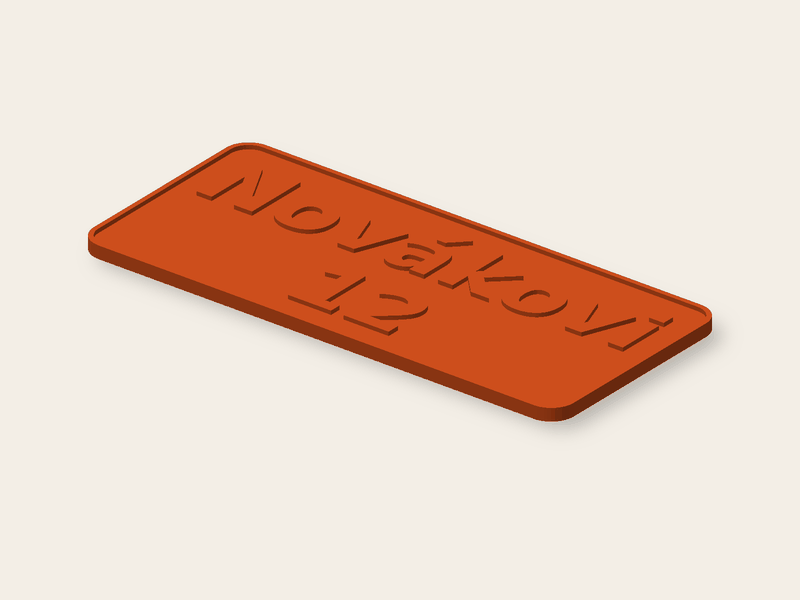
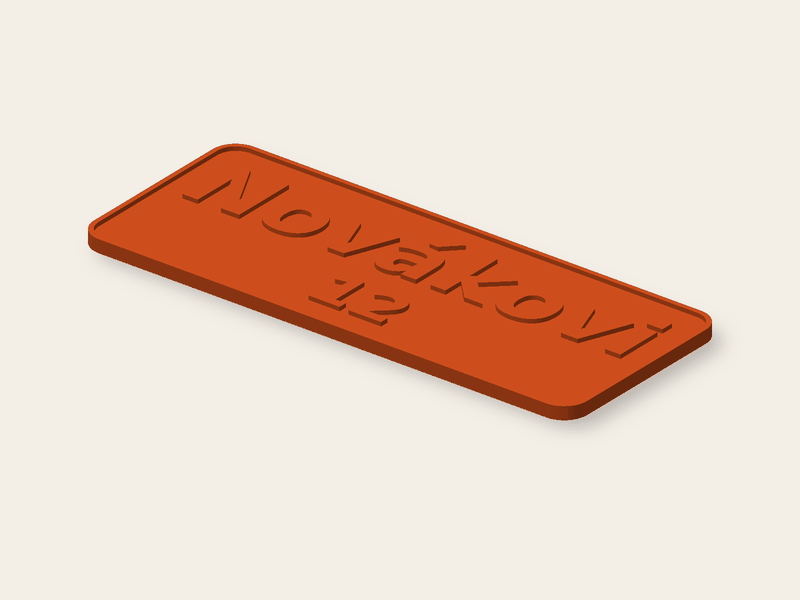
Tools: four places where a tool said one thing and did another
- sign: the second line is smaller (70 % of the first), as its label says; the example picture is redrawn
- illuminated sign: the hint puts the cable hole where it is, in the body
- phone stand: an angle the chosen shape cannot stand at is still corrected, but the page says so
  (notes.warnings stand_angle_45/55/70, notes.angle)
- cap: the message "a thread works on a round cap only" was never shown and never true; removed

The QR code's hanging hole is being fixed in feature/farm. docs/H.md has the details.

Changed region(s): [[0.0938, 0.24, 0.9062, 0.72]]

diff --git a/tests/Feature/ToolFixesTest.php b/tests/Feature/ToolFixesTest.php
@@ -1,0 +1,97 @@
+<?php
+
+namespace Tests\Feature;
+
+use App\Domain\Tools\ParametricGenerator;
+use Illuminate\Foundation\Testing\RefreshDatabase;
+use Illuminate\Support\Facades\Lang;
+use Tests\TestCase;
+
+/** Four places where a tool said one thing and did another: the sign, the illuminated sign, the phone stand, the cap. */
+class ToolFixesTest extends TestCase
+{
+    use RefreshDatabase;
+
+    protected function setUp(): void
+    {
+        parent::setUp();
+        if (! app(ParametricGenerator::class)->available()) {
+            $this->markTestSkipped('Python with manifold3d is not installed.');
+        }
+    }
+
+    private function notes(string $kind, array $params): array
+    {
+        $response = $this->postJson('/api/tools/param/preview', ['kind' => $kind, 'params' => $params])->assertOk();
+
+        return (array) json_decode((string) $response->headers->get('X-Model-Meta'), true)['notes'];
+    }
+
+    public function test_the_second_line_of_a_sign_is_smaller_as_its_label_says(): void
+    {
+        $this->assertStringContainsString('menší', __('param.t.sign.line2'));
+        $sign = ['style' => 'emboss', 'shape' => 'rect', 'text_height' => 12, 'margin' => 5];
+        // the plate is as wide as its widest line plus the margins: ten letters alone, and the same ten under one letter
+        $alone = $this->notes('sign', $sign + ['line1' => 'HHHHHHHHHH'])['outer'];
+        $under = $this->notes('sign', $sign + ['line1' => 'H', 'line2' => 'HHHHHHHHHH'])['outer'];
+        $this->assertEqualsWithDelta(0.7, ($under[0] - 10) / ($alone[0] - 10), 0.01, 'the second line is 70 % of the first');
+        // … and the plate is lower than it would be with two lines of the same height
+        $one = $alone[1] - 10;                           // the height of one line of capitals
+        $this->assertGreaterThan($one * 1.7, $under[1] - 10);
+        $this->assertLessThan($one * 2.3, $under[1] - 10);
+        // two lines as wide as each other: the plate is as wide as the first, the second does not reach its edges
+        $this->assertSame($alone[0], $this->notes('sign', $sign + ['line1' => 'HHHHHHHHHH', 'line2' => 'HHHHHHHHHH'])['outer'][0]);
+    }
+
+    public function test_the_phone_stand_says_when_it_cannot_stand_at_the_angle_that_was_asked_for(): void
+    {
+        $stand = fn (string $style, float $angle) => $this->notes('phone_stand', ['style' => $style, 'width' => 70, 'device' => 12, 'angle' => $angle]);
+
+        foreach ([['plate', 40, 55, 'stand_angle_55'], ['wave', 35, 55, 'stand_angle_55'], ['desk', 40, 45, 'stand_angle_45'], ['wedge', 80, 70, 'stand_angle_70']] as [$style, $asked, $used, $warning]) {
+            $notes = $stand($style, $asked);
+            $this->assertSame([(float) $used, [$warning]], [(float) $notes['angle'], $notes['warnings']], $style);
+            // the same model as when that angle is asked for directly
+            $this->assertSame($notes['outer'], $stand($style, $used)['outer'], $style);
+        }
+        // inside the range nothing is changed and nothing is said
+        foreach ([['plate', 65], ['wave', 60], ['desk', 50], ['wedge', 60]] as [$style, $asked]) {
+            $notes = $stand($style, $asked);
+            $this->assertSame([(float) $asked, []], [(float) $notes['angle'], $notes['warnings'] ?? []], $style);
+        }
+        // the page knows the sentences in every language
+        foreach (['cs' => 'stojí pevně až od 55°', 'en' => 'stable only from 55°', 'es' => 'estable a partir de 55°'] as $locale => $words) {
+            $this->assertStringContainsString($words, __('param.warn.stand_angle_55', [], $locale));
+            $this->get($this->localized('/tools/phone-stand', $locale))->assertOk()->assertSee('param.warn.stand_angle_55')->assertSee('param.warn.stand_angle_70');
+        }
+        // the new group file does not hide the dictionary's own `param.*` texts
+        $this->assertSame('První řádek', __('param.t.sign.line1', [], 'cs'));
+    }
+
+    public function test_the_illuminated_sign_has_its_cable_hole_where_the_text_says(): void
+    {
+        foreach (['cs' => 'tělo s otvorem na kabel', 'en' => 'body with a cable hole', 'es' => 'cuerpo con orificio para el cable'] as $locale => $words) {
+            $this->assertStringContainsString($words, __('tools.lightbox.hint', [], $locale));
+            $this->get($this->localized('/tools', $locale))->assertOk()->assertSee($words);
+        }
+        // the hole is in the body: a thicker cable takes more out of the body and nothing out of the back cover
+        $volume = function (string $part, float $cable): float {
+            $response = $this->postJson('/api/tools/param/preview', ['kind' => 'lightbox', 'params' => ['line1' => 'OPEN', 'cable' => $cable], 'part' => $part])->assertOk();
+
+            return (float) json_decode((string) $response->headers->get('X-Model-Meta'), true)['volume_mm3'];
+        };
+        $this->assertLessThan($volume('body', 4), $volume('body', 8));
+        $this->assertSame($volume('back', 4), $volume('back', 8));
+    }
+
+    public function test_a_threaded_cap_may_be_round_square_or_hexagonal_and_no_text_says_otherwise(): void
+    {
+        foreach (['round', 'rect', 'hex'] as $shape) {
+            $notes = $this->notes('cap', ['style' => 'thread', 'shape' => $shape, 'size_a' => 28, 'size_b' => 40, 'height' => 12, 'pitch' => 3]);
+            $this->assertSame([$shape, [28.0]], [$notes['shape'], array_map('floatval', $notes['fits'])]);
+            $this->assertArrayHasKey('thread', $notes);
+        }
+        foreach (['cs', 'en', 'es'] as $locale) {
+            $this->assertFalse(Lang::has('param.error.cap_thread_round', $locale, false), 'the message about a round cap only was never true');
+        }
+    }
+}

diff --git a/engines/python/shape2d.py b/engines/python/shape2d.py
@@ -84,8 +84,11 @@ def _spare_fonts(font_path):
 SILENT = {0xFE0E, 0xFE0F, 0x200D, 0x20E3} | set(range(0x1F3FB, 0x1F400))
 
 
-def text(M, lines, font_path, cap_height_mm, line_gap=0.35, align="center"):
-    """Lines of text → outline. cap_height_mm is the height of a capital letter, so "12 mm text" means what people expect."""
+def text(M, lines, font_path, cap_height_mm, line_gap=0.35, align="center", scales=None):
+    """
+    Lines of text → outline. cap_height_mm is the height of a capital letter, so "12 mm text" means what people expect.
+    scales: how tall each line is against that height (None = all the same); a name with a smaller line under it is [1, 0.7].
+    """
     import numpy as np
     from fontTools.ttLib import TTFont
     lines = [l for l in (str(x).strip() for x in lines) if l]
@@ -153,22 +156,28 @@ def text(M, lines, font_path, cap_height_mm, line_gap=0.35, align="center"):
             x += hmtx[g][0]
         rows.append(row)
         widths.append(x)
+    size = [float(scales[i]) if scales and i < len(scales) else 1.0 for i in range(len(rows))]
+    widths = [w * s for w, s in zip(widths, size)]
     wmax = max(widths) if widths else 0
-    step = cap * (1 + line_gap) + units * 0.12
+    # baselines: under a line comes the gap, what hangs below its baseline, and the capitals of the next line
+    # (with every line the same size this is the one step there always was)
+    base = [0.0]
+    for i in range(1, len(rows)):
+        base.append(base[-1] - (cap * size[i] + cap * line_gap * (size[i - 1] + size[i]) / 2 + units * 0.12 * size[i - 1]))
     for i, row in enumerate(rows):
         dx = {"left": 0, "right": wmax - widths[i]}.get(align, (wmax - widths[i]) / 2)
-        dy = -i * step
+        s, dy = size[i], base[i]
         for poly in row:
             total += len(poly)
-            polys.append(np.array([((px + dx) * k, (py + dy) * k) for px, py in poly], dtype=np.float64))
+            polys.append(np.array([((px * s + dx) * k, (py * s + dy) * k) for px, py in poly], dtype=np.float64))
     if not polys:
         raise ArtworkError("no_text")
     if total > MAX_POINTS:
         raise ArtworkError("too_complex")
     cs = M.CrossSection(polys, M.FillRule.NonZero)
     bx0, by0, bx1, by1 = cs.bounds()
-    # the baseline of the last line sits at y = -(lines-1)·step; how far the ink hangs below it, relative to the text width
-    base_y = -(len(rows) - 1) * step * k
+    # how far the ink hangs below the baseline of the last line, relative to the text width
+    base_y = base[-1] * k
     hang = max(0.0, base_y - by0) / max(1e-6, bx1 - bx0)
     return cs, {"missing_chars": sorted(missing), "source": "text", "descent_ratio": hang}
 

diff --git a/resources/views/tools/param.blade.php b/resources/views/tools/param.blade.php
@@ -4,7 +4,7 @@
     $integer = fn (array $f) => $f[3] === 1;
     $unit = fn (string $k) => in_array($k, ['rows', 'cols', 'count', 'ribs'], true) ? '' : (in_array($k, ['angle', 'twist'], true) ? '°' : ($k === 'flute' ? '%' : 'mm'));
     $i18n = collect(['param.working', 'param.failed', 'param.too_fast', 'param.text_required', 'param.estimate', 'param.outer', 'param.inner', 'param.cell', 'param.slot', 'param.hole', 'param.hole.remove', 'param.creating', 'param.too_many_holes',
-        'param.wall.front', 'param.wall.back', 'param.wall.left', 'param.wall.right', 'param.shape.circle', 'param.shape.rect', 'param.hole.w', 'param.hole.d', 'param.hole.h', 'param.hole.x', 'param.hole.z',
+        'param.warn.stand_angle_45', 'param.warn.stand_angle_55', 'param.warn.stand_angle_70', 'param.wall.front', 'param.wall.back', 'param.wall.left', 'param.wall.right', 'param.shape.circle', 'param.shape.rect', 'param.hole.w', 'param.hole.d', 'param.hole.h', 'param.hole.x', 'param.hole.z',
         'param.part.body', 'param.part.lid', 'param.part.all', 'param.part.saucer', 'param.part.handle', 'param.part.stand', 'param.part.imprint', 'param.part.cut', 'param.part.body.logo', 'param.part.stand.logo', 'param.part.body.vase', 'param.part.body.stamp', 'param.part.body.qr', 'param.part.body.lightbox', 'param.warn.floating_pieces', 'param.need.glue_optional', 'param.part.tray', 'param.part.bin', 'param.bom', 'param.bom.line', 'param.unit', 'param.bins.free', 'param.bins.pick_end', 'param.bins.taken', 'param.bins.bin', 'param.bins.empty',
         'color.white', 'color.black', 'color.grey', 'color.brown', 'color.red', 'color.blue', 'color.green', 'color.yellow', 'color.orange', 'param.part.face', 'param.part.diffuser', 'param.part.back', 'param.bridges', 'param.lightbox.led', 'param.need.led_strip8', 'param.need.led_strip10', 'param.need.led_module', 'param.need.usb_power', 'param.need.tape', 'param.view', 'param.artwork.uploading', 'param.artwork.failed', 'param.artwork.remove',
         'param.warn.thread_try', 'param.warn.seal_try', 'param.need.liner', 'param.fits', 'param.warn.thin_lines', 'param.warn.outlines_ignored', 'param.warn.missing_chars', 'param.warn.separate_pieces', 'param.need.glue', 'param.needs', 'param.qr.facts', 'param.vase.facts', 'param.saucer'])->mapWithKeys(fn ($k) => [$k => __($k)])->all();

diff --git a/engines/python/param_tool.py b/engines/python/param_tool.py
@@ -451,8 +451,18 @@ def phone_stand(M, p):
     C = M.CrossSection
     note = {}
 
+    def lean(lo=None, hi=None):
+        """The angle that was asked for, kept to what this shape stands firmly at; a changed angle is told (param.warn.stand_angle_*)."""
+        asked = num(p, k, "angle", 65)
+        used = asked if lo is None else max(asked, lo)
+        used = used if hi is None else min(used, hi)
+        if used != asked:
+            note.setdefault("warnings", []).append("stand_angle_%d" % used)
+        note["angle"] = used
+        return used
+
     if style == "wave":
-        angle, back = max(num(p, k, "angle", 65), 55.0), num(p, k, "back", 90)
+        angle, back = lean(lo=55.0), num(p, k, "back", 90)
         profile, depth, height, seat_top, (sx0, sx1) = _wave_profile(M, device, angle, back, t)
         solid = profile.extrude(width)
         if cable:
@@ -466,7 +476,7 @@ def phone_stand(M, p):
 
     if style == "plate":
         # flat base, a leaning back plate braced by a fin, two hook blocks with a seat and a lip; printed upright
-        angle, back = max(num(p, k, "angle", 65), 55.0), num(p, k, "back", 100)
+        angle, back = lean(lo=55.0), num(p, k, "back", 100)
         a = math.radians(angle)
         seat_h, lip_h, lip_t, hook_w = 10.0, 6.0, 3.0, 12.0
         y_lip = 8.0
@@ -490,7 +500,7 @@ def phone_stand(M, p):
         return {"all": solid, "use": use}, note
 
     if style == "wedge":
-        angle = min(num(p, k, "angle", 65), 70.0)
+        angle = lean(hi=70.0)
         profile, mouth, height, depth = _wedge_profile(M, device, angle, num(p, k, "depth", 60), r)
         solid = profile.extrude(width)
         if cable:
@@ -553,7 +563,7 @@ def phone_stand(M, p):
         note["material_hint"] = "petg"
         return {"all": solid, "use": use}, note
 
-    angle, back = max(num(p, k, "angle", 65), 45.0), num(p, k, "back", 100)
+    angle, back = lean(lo=45.0), num(p, k, "back", 100)
     profile, fx, rear_x, top_y, shelf_h, lip_h = _desk_profile(M, device, angle, back, t, r, bool(p.get("window", True)))
     solid = profile.extrude(width)
     if cable:

diff --git a/lang/cs/tools_seo/sign.php b/lang/cs/tools_seo/sign.php
@@ -5,7 +5,7 @@ return [
     'description' => 'Napíšete jméno nebo text, vyberete tvar a písmo a hned vidíte model i cenu. Cedulku, jmenovku nebo klíčenku vám vytiskneme, nebo si ji stáhnete.',
     'h1' => 'Cedulka, jmenovka nebo klíčenka s vlastním textem',
     'intro' => [
-        'Nástroj vytvoří z textu, který napíšete, model cedulky na dveře, jmenovky, klíčenky nebo jména bez destičky. Text může mít jeden nebo dva řádky, každý nejvýše 40 znaků. Vyberete provedení písma (vystouplé, zapuštěné, obrys, nebo jen jméno bez destičky), tvar destičky a jedno ze čtyř písem. Rozměry destičky se dopočítají samy podle délky textu, výšky písma a okraje.',
+        'Nástroj vytvoří z textu, který napíšete, model cedulky na dveře, jmenovky, klíčenky nebo jména bez destičky. Text může mít jeden nebo dva řádky, každý nejvýše 40 znaků; druhý řádek je menší než první. Vyberete provedení písma (vystouplé, zapuštěné, obrys, nebo jen jméno bez destičky), tvar destičky a jedno ze čtyř písem. Rozměry destičky se dopočítají samy podle délky textu, výšky písma a okraje.',
         'Náhled se mění při každé úpravě a pod ním vidíte vnější rozměry v milimetrech a orientační cenu. Hotový návrh si objednáte jako výtisk z naší tiskové farmy, nebo si ho zdarma stáhnete pro svou tiskárnu. Vystouplé písmo umíme vytisknout druhou barvou: tiskárna ji vymění ve výšce, kde písmo začíná. Barvy vybíráte z těch, které jsou právě založené v tiskárnách.',
     ],
     'steps' => [

diff --git a/lang/es/tools_seo/sign.php b/lang/es/tools_seo/sign.php
@@ -5,7 +5,7 @@ return [
     'description' => 'Escriba un nombre o un texto, elija la forma y la tipografía y vea al instante el modelo y el precio. Imprimimos la placa o el llavero, o lo descarga.',
     'h1' => 'Placa, etiqueta o llavero con su propio texto',
     'intro' => [
-        'La herramienta convierte su texto en un cartel de puerta, una etiqueta, un llavero o un nombre sin placa. El texto admite una o dos líneas de hasta 40 caracteres. Usted elige el acabado (en relieve, grabado, contorno o solo el nombre), la forma de la placa y una de cuatro tipografías. Las medidas de la placa se calculan según el texto, la altura de letra y el margen.',
+        'La herramienta convierte su texto en un cartel de puerta, una etiqueta, un llavero o un nombre sin placa. El texto admite una o dos líneas de hasta 40 caracteres; la segunda línea es más pequeña que la primera. Usted elige el acabado (en relieve, grabado, contorno o solo el nombre), la forma de la placa y una de cuatro tipografías. Las medidas de la placa se calculan según el texto, la altura de letra y el margen.',
         'La vista previa cambia con cada ajuste y muestra las medidas exteriores en milímetros y un precio orientativo. Puede pedir el diseño impreso en nuestra granja de impresión o descargarlo gratis para su impresora. Las letras en relieve se pueden imprimir en un segundo color: la impresora lo cambia a la altura donde empiezan las letras. Los colores disponibles son los cargados en las impresoras en ese momento.',
     ],
     'steps' => [

diff --git a/lang/en/tools_seo/sign.php b/lang/en/tools_seo/sign.php
@@ -5,7 +5,7 @@ return [
     'description' => 'Type a name or a text, pick a shape and a typeface and see the model and the price at once. We print the sign, name tag or keyring, or you download it.',
     'h1' => 'A sign, name tag or keyring with your own text',
     'intro' => [
-        'The tool turns your text into a door sign, a name tag, a keyring or a name without a plate. The text can have one or two lines of up to 40 characters each. You pick the lettering (raised, engraved, outline, or the name alone), the plate shape and one of four typefaces. The plate size follows from the length of the text, the letter height and the margin.',
+        'The tool turns your text into a door sign, a name tag, a keyring or a name without a plate. The text can have one or two lines of up to 40 characters each; the second line is smaller than the first. You pick the lettering (raised, engraved, outline, or the name alone), the plate shape and one of four typefaces. The plate size follows from the length of the text, the letter height and the margin.',
         'The preview changes with every edit and shows the outer size in millimetres and a rough price. You order the design as a print from our print farm, or download it free for your own printer. Raised letters can be printed in a second colour: the printer swaps it at the height where the letters begin. You choose from the colours loaded in the printers at that moment.',
     ],
     'steps' => [

diff --git a/engines/python/creative_kinds.py b/engines/python/creative_kinds.py
@@ -255,6 +255,9 @@ def logo(M, Invalid, p):
 
 # ── sign / name tag / keychain ───────────────────────────────────────────────
 
+SIGN_SECOND_LINE = 0.7     # the height of a sign's second line against the first
+
+
 def sign(M, Invalid, p):
     """
     Text on a plate: raised (emboss), sunk (engrave) or raised as an outline. Keyring tab, raised rim, a bevelled top
@@ -273,7 +276,8 @@ def sign(M, Invalid, p):
     if not lines:
         raise Invalid("no_text")
     try:
-        art, info = S.text(M, lines[:2], p.get("font"), cap)
+        # the form calls the second line "smaller": a name and a line under it, not two headlines
+        art, info = S.text(M, lines[:2], p.get("font"), cap, scales=[1.0, SIGN_SECOND_LINE])
     except S.ArtworkError as e:
         raise Invalid(e.code)
     w, hgt = S.size(art)

diff --git a/lang/es/param.php b/lang/es/param.php
@@ -1,0 +1,11 @@
+<?php
+
+// Texts of the parametric tools that are not in the shared dictionary (lang/es.json holds the rest of `param.*`).
+return [
+    'warn' => [
+        // the phone stand: the angle that was asked for is outside what the chosen shape stands firmly at
+        'stand_angle_45' => 'Esta forma de soporte solo es estable a partir de 45°. Por eso el modelo tiene un ángulo de 45°, no el indicado.',
+        'stand_angle_55' => 'Esta forma de soporte solo es estable a partir de 55°. Por eso el modelo tiene un ángulo de 55°, no el indicado.',
+        'stand_angle_70' => 'La cuña baja sujeta el teléfono como máximo a 70°. Por eso el modelo tiene un ángulo de 70°, no el indicado.',
+    ],
+];

diff --git a/lang/en/param.php b/lang/en/param.php
@@ -1,0 +1,11 @@
+<?php
+
+// Texts of the parametric tools that are not in the shared dictionary (lang/en.json holds the rest of `param.*`).
+return [
+    'warn' => [
+        // the phone stand: the angle that was asked for is outside what the chosen shape stands firmly at
+        'stand_angle_45' => 'This stand shape is stable only from 45°. The model therefore has an angle of 45°, not the one you entered.',
+        'stand_angle_55' => 'This stand shape is stable only from 55°. The model therefore has an angle of 55°, not the one you entered.',
+        'stand_angle_70' => 'A low wedge holds the phone at 70° at most. The model therefore has an angle of 70°, not the one you entered.',
+    ],
+];

diff --git a/lang/cs/param.php b/lang/cs/param.php
@@ -1,0 +1,11 @@
+<?php
+
+// Texts of the parametric tools that are not in the shared dictionary (lang/cs.json holds the rest of `param.*`).
+return [
+    'warn' => [
+        // the phone stand: the angle that was asked for is outside what the chosen shape stands firmly at
+        'stand_angle_45' => 'Tenhle tvar stojánku stojí pevně až od 45°. Model má proto úhel 45°, ne ten zadaný.',
+        'stand_angle_55' => 'Tenhle tvar stojánku stojí pevně až od 55°. Model má proto úhel 55°, ne ten zadaný.',
+        'stand_angle_70' => 'Nízký klín udrží telefon nejvýš v úhlu 70°. Model má proto úhel 70°, ne ten zadaný.',
+    ],
+];

diff --git a/docs/H.md b/docs/H.md
@@ -1,0 +1,46 @@
+# Opravy čtyř nástrojů
+
+Větev `feature/h-tool-fixes` (z `feature/g-no-pickup-logo`). Čtyři z pěti drobností sepsaných v `docs/E.md`;
+pátou (QR kód, otvor na zavěšení) opravuje jiná session ve `feature/farm`.
+
+| nástroj | co bylo špatně | oprava |
+|---|---|---|
+| Cedulka | popisek „Druhý řádek (menší)“, ale oba řádky byly stejně vysoké | druhý řádek má 70 % výšky prvního (`SIGN_SECOND_LINE` v `creative_kinds.py`, `shape2d.text(..., scales=)`). Destička se dopočítá podle toho. Cedulka s jedním řádkem se nezměnila. |
+| Světelná cedule | nápověda: otvor na kabel je v zadním krytu; ve skutečnosti je v těle | opravený text ve třech jazycích („tělo s otvorem na kabel a zadní kryt“) |
+| Stojánek na telefon | formulář dovolí úhel 35 až 80°, tvar ho potichu upravil (deska a vlna od 55°, stolní od 45°, klín do 70°) | model se pořád vyrobí v úhlu, ve kterém tvar stojí pevně, ale stránka to řekne: „Tenhle tvar stojánku stojí pevně až od 55°. Model má proto úhel 55°, ne ten zadaný.“ Použitý úhel je i v údajích modelu (`notes.angle`). |
+| Krytka se závitem | ve slovníku byla hláška „závit umíme jen na kulatém víčku“ | hláška se nikdy nezobrazila a nebyla pravdivá (závit jde do kulatého, hranatého i šestihranného víčka). Je smazaná. |
+
+## Rozhodnutí
+
+1. **Cedulka: opravil jsem chování, ne popisek.** Jméno a menší řádek pod ním (číslo domu, datum) je to, co
+   formulář slibuje a co lidé u cedulky čekají. Ukázka „Novákovi / 12“ na stránce nástroje je překreslená
+   (`public/img/tool-examples/sign-2.png`) a text stránky to zmiňuje.
+2. **Stojánek: upozornění, ne jiné meze ve formuláři.** Meze podle tvaru by znamenaly měnit formulář a jeho skript,
+   které má právě rozpracované druhá session. Upozornění jde stejnou cestou jako ostatní (`notes.warnings` →
+   `param.warn.*`).
+3. **Nové texty jsou v `lang/{cs,en,es}/param.php`**, ne ve sdílených `lang/*.json`, aby se nepotkaly s texty
+   QR kódu, které druhá session přidává na konec slovníků. Ze slovníků jsem změnil jen dva řádky (nápověda
+   světelné cedule, smazaná hláška krytky), daleko od jejích úprav.
+
+## Sloučení s opravou QR kódu
+
+Druhá session má rozpracované `engines/python/creative_kinds.py`, `resources/views/tools/param.blade.php`,
+`lang/*.json`, `ParametricGenerator.php`, `param.ts`, `farm.ts` a `OrderController.php`. Moje úpravy v prvních
+třech jsou na jiných řádcích, takže se sloučí samy. **`farm.ts` a `OrderController.php` jsem ale hodně měnil
+v krocích D a G (doručení, měna, bez osobního odběru)**; tam je při slučování větve farmy s touhle potřeba
+počítat s ručním řešením konfliktů.
+
+## Testy
+
+`tests/Feature/ToolFixesTest.php` (4 testy): druhý řádek cedulky má 70 % výšky; stojánek hlásí upravený úhel
+u všech čtyř tvarů a mlčí, když úhel sedí; otvor na kabel je v těle světelné cedule a text to říká; závitové víčko
+jde vyrobit kulaté, hranaté i šestihranné a hláška o „jen kulatém“ neexistuje.
+
+## Nasazení (Roman)
+
+```
+php artisan optimize
+systemctl restart php8.2-fpm
+```
+
+Bez migrace, bez nových `.env` klíčů, bez nového buildu (JavaScript se neměnil).
